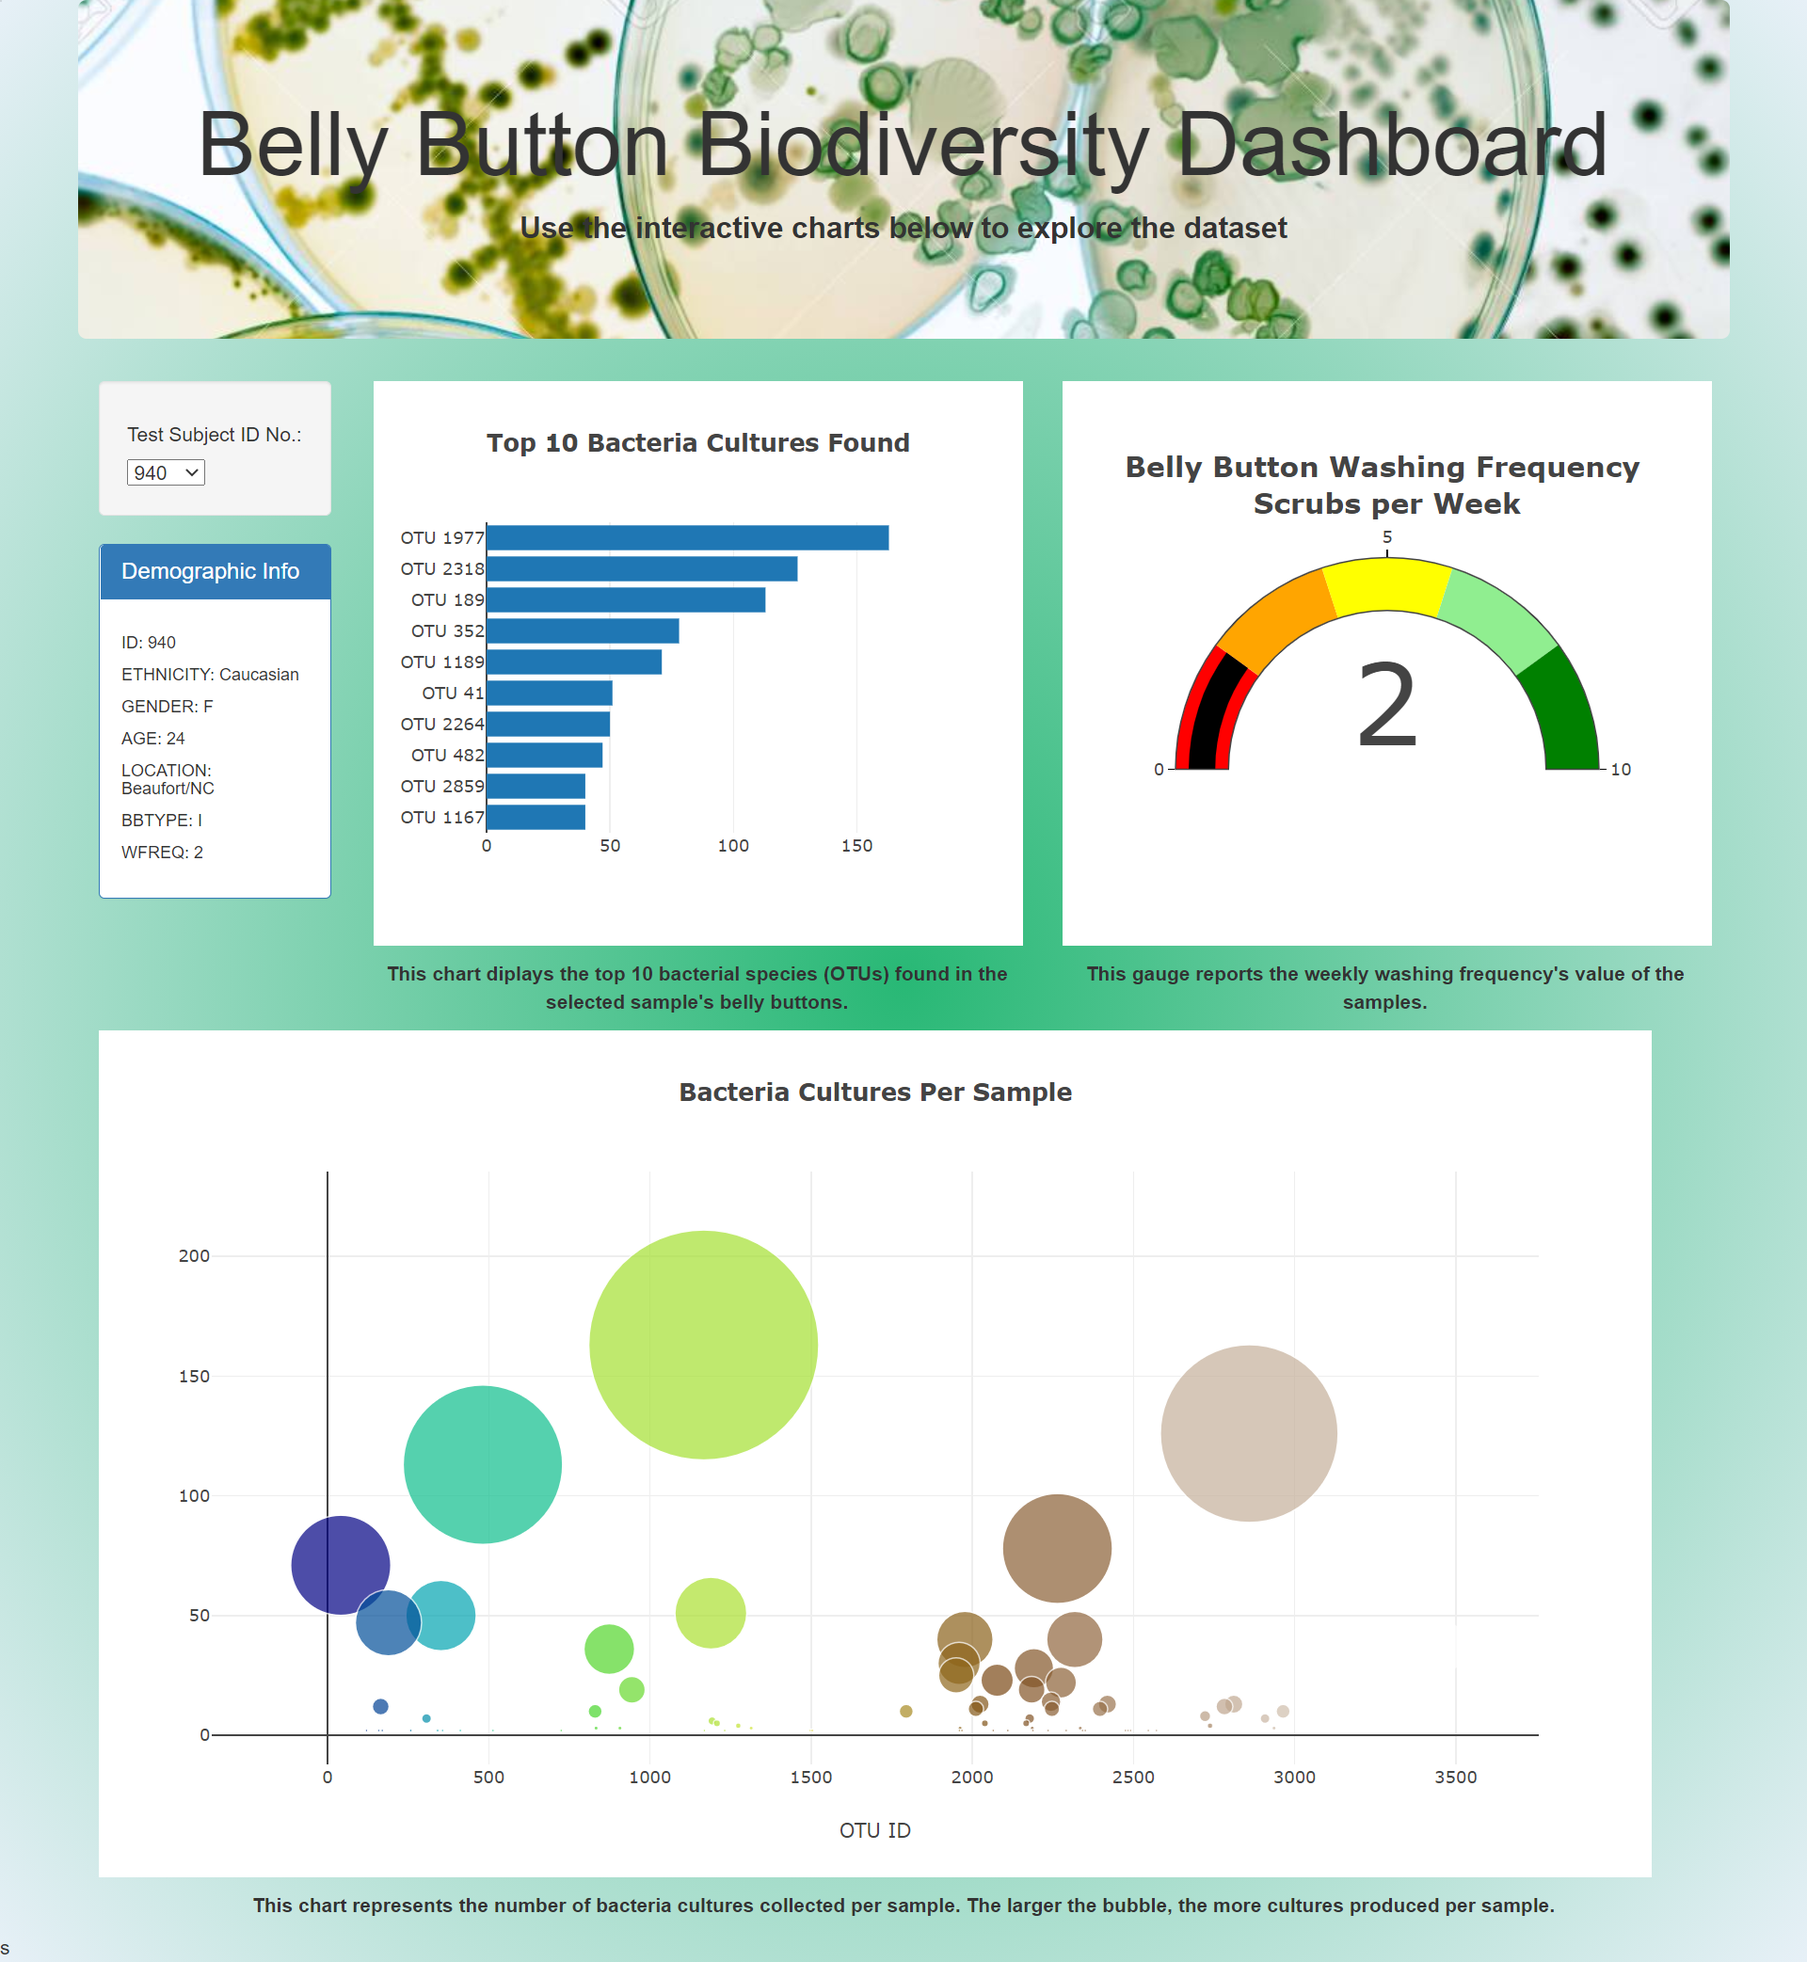
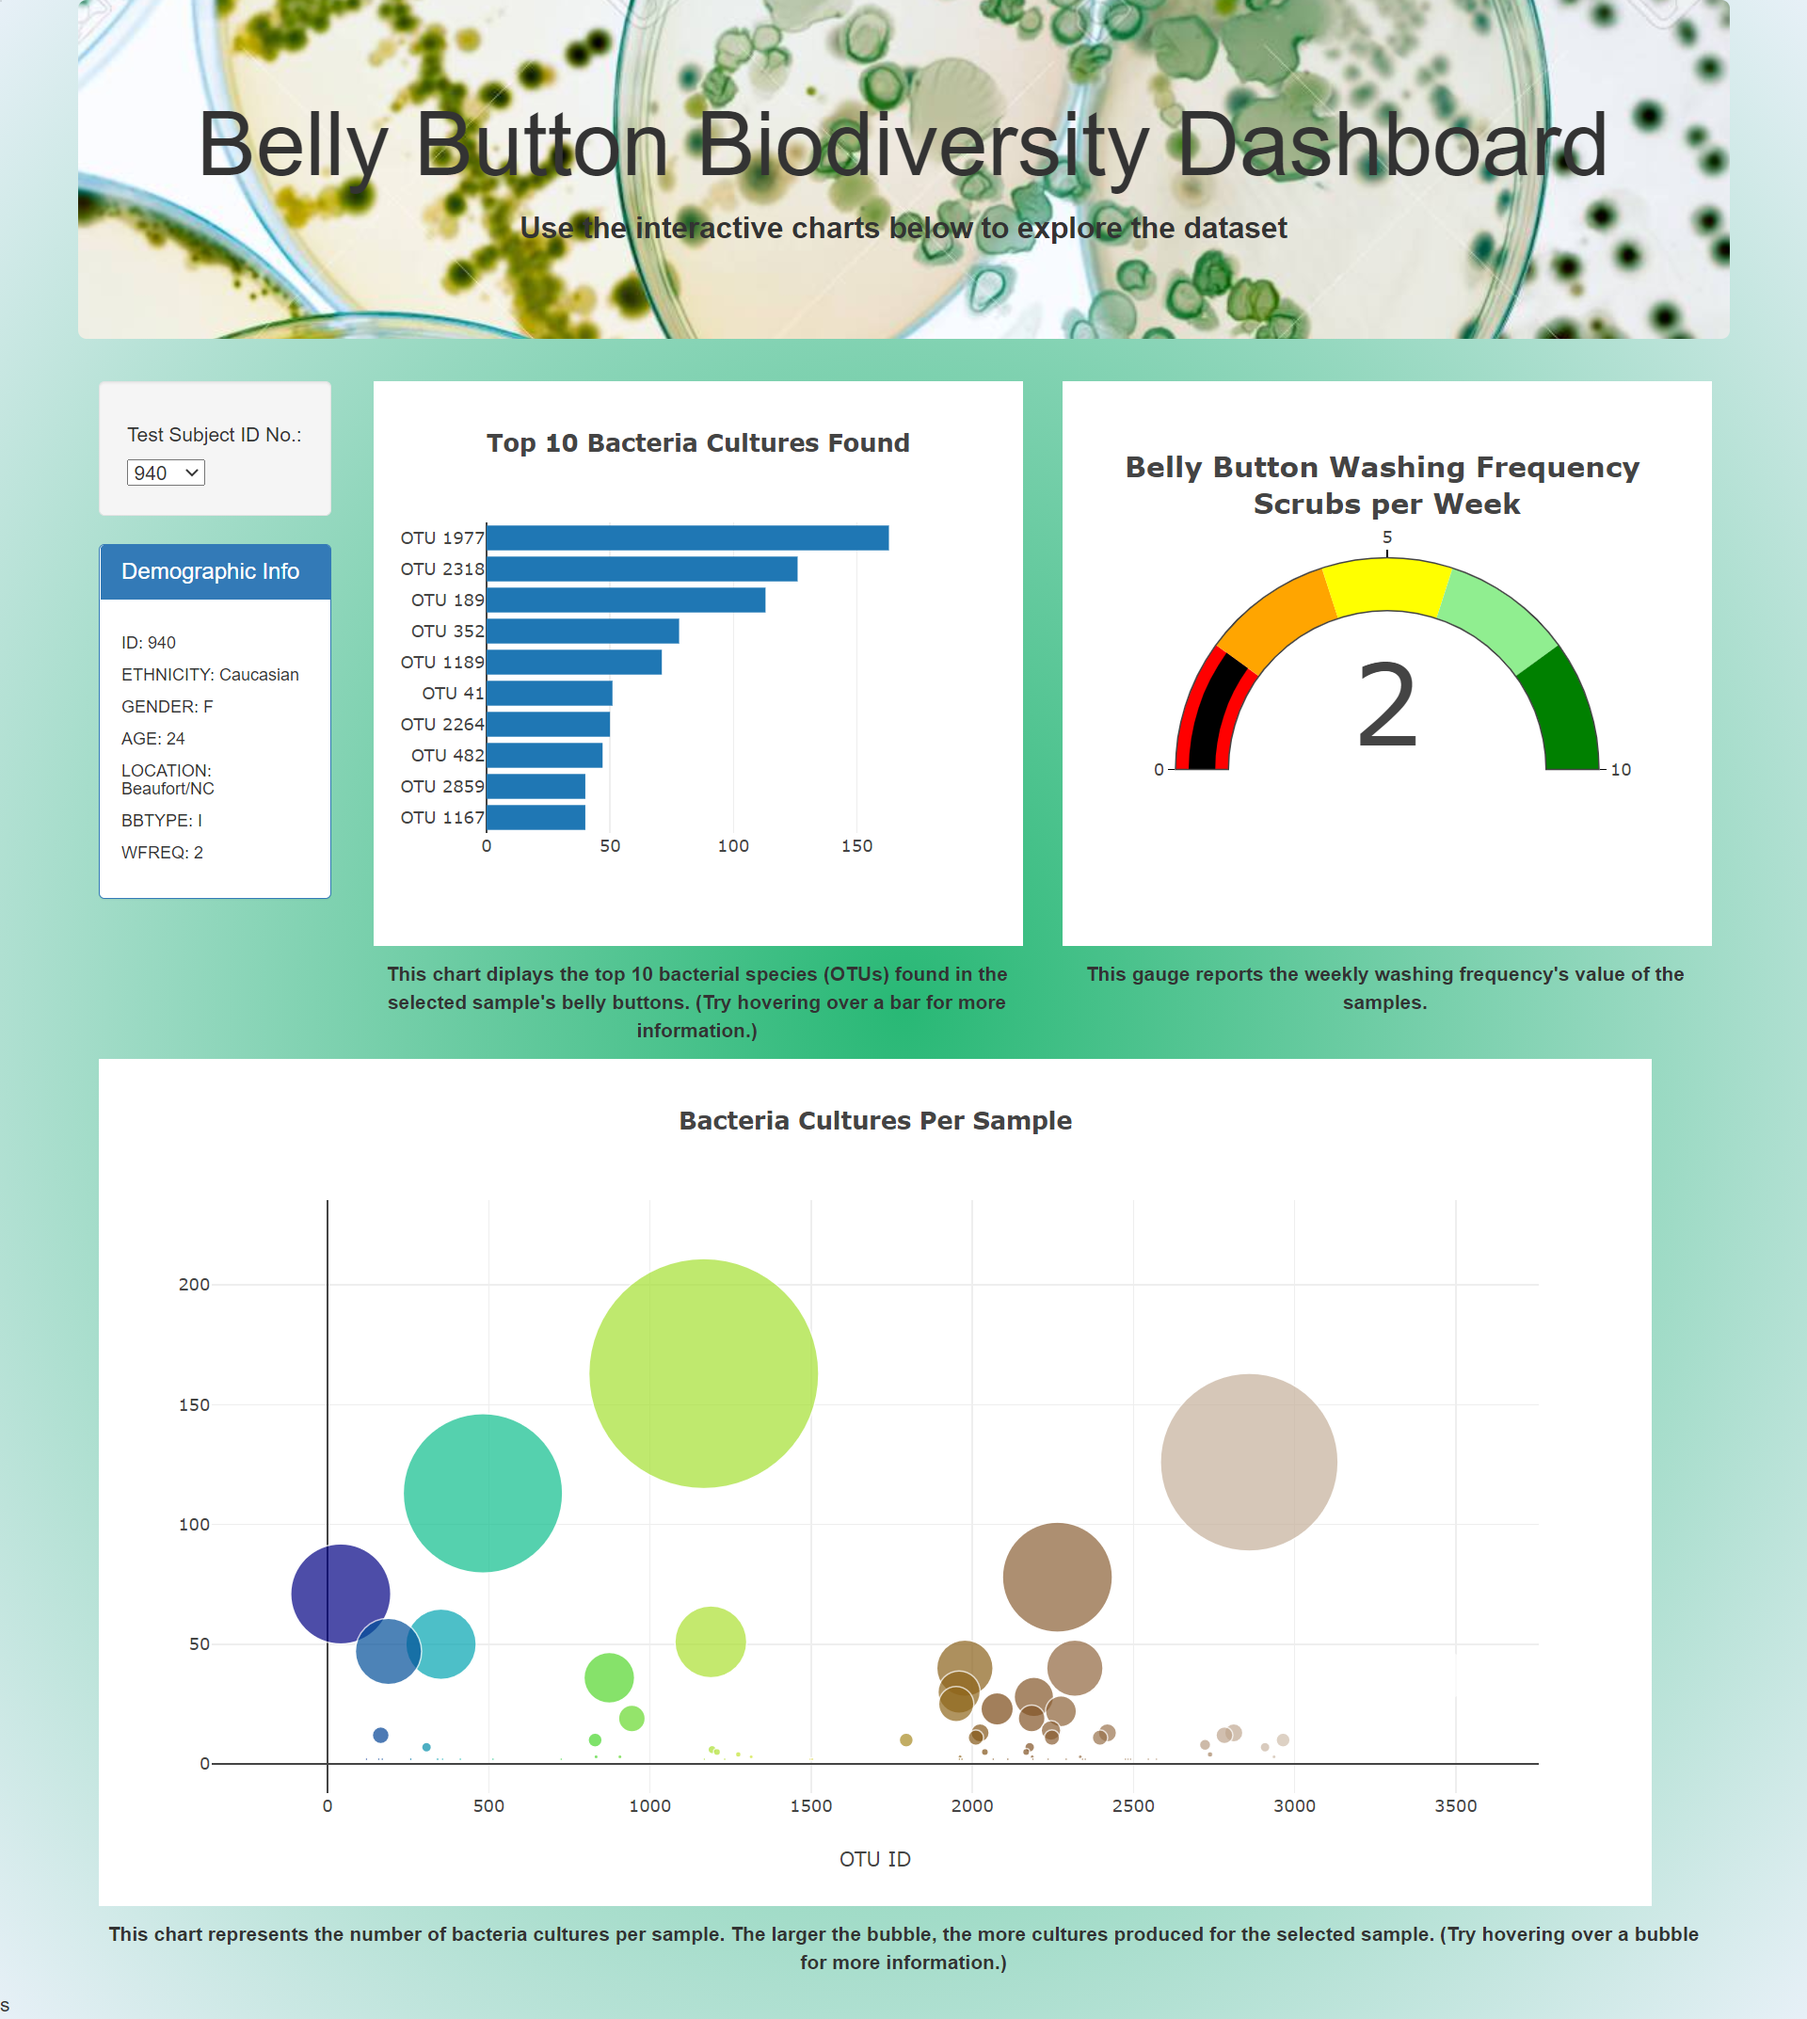
Update index.html and images.

diff --git a/index.html b/index.html
@@ -36,7 +36,7 @@
       </div>
       <div class="col-md-5">
         <div id="bar"></div>
-        <p><b><center>This chart diplays the top 10 bacterial species (OTUs) found in the selected sample's belly buttons.</center></b></p>
+        <p><b><center>This chart diplays the top 10 bacterial species (OTUs) found in the selected sample's belly buttons. (Try hovering over a bar for more information.)</center></b></p>
       </div>
       <div class="col-md-5">
         <div id="gauge"></div>
@@ -46,7 +46,7 @@
     <div class="row">
       <div class="col-md-12">
         <div id="bubble"></div>
-        <p><b><center>This chart represents the number of bacteria cultures per sample. The larger the bubble, the more cultures produced for the selected sample. Try hovering over a bubble for more information.</center></b></p>
+        <p><b><center>This chart represents the number of bacteria cultures per sample. The larger the bubble, the more cultures produced for the selected sample. (Try hovering over a bubble for more information.)</center></b></p>
       </div>
     </div>
   </div>
